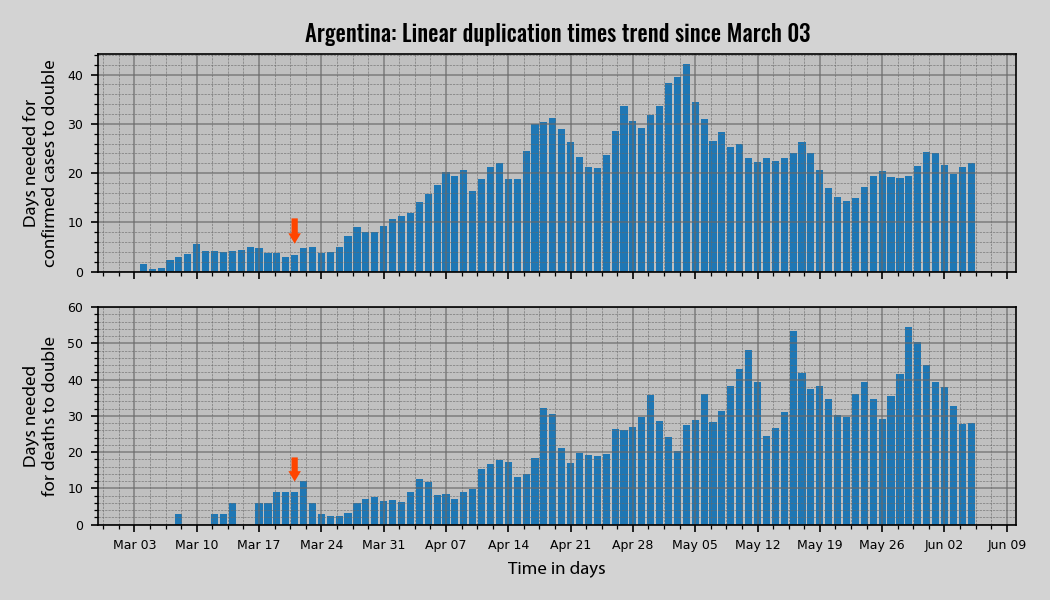
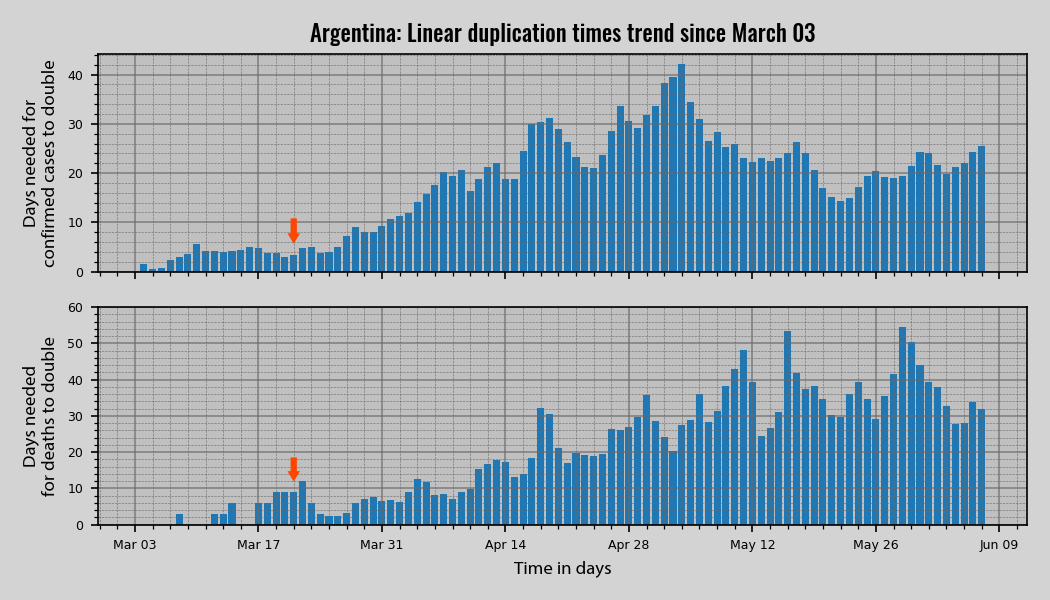
11-06-2020
Correcting the code...

diff --git a/COVID-19_Ar_Analysis.py b/COVID-19_Ar_Analysis.py
@@ -23,7 +23,7 @@ regions = ["CABA", "BUENOS AIRES", "CHACO"]
 #regions = ["NEUQUEN", "MENDOZA", "LA RIOJA", "ENTRE RIOS", "SANTA FE", "SAN JUAN", "CHUBUT"]
 
 #Selecting data to display
-startDate = "2020-03-03" #Starting point for plotbyDate. Default: 03/03
+startDate = "2020-03-15" #Starting point for plotbyDate. Default: 03/03
 caseCount = 200 #Starting point for plotbyOutbreak (number of confirmed cases)
 dataGuide = 0 #Data type to calculate startpoints (0 for confirmed, 2 for deaths)
 
@@ -31,26 +31,30 @@ dataGuide = 0 #Data type to calculate startpoints (0 for confirmed, 2 for deaths
 lg = 0 # 0 for english, 1 for spanish
 
 #Deciding if you want to save and show charts...
-saveChart = True
+saveChart = False
 showChart = True
 
 #Deciding what to plot...
 confirmedByDate = True #Decide if you want to plot confirmed data by date for selected regions.
-deathsByDate = True #Decide if you want to plot deaths data by date for selected regions.
+deathsByDate = False #Decide if you want to plot deaths data by date for selected regions.
 confirmedAndDeathsbyDate = True
 confirmedByOutbreak = False #Decide if you want to plot confirmed cases since dataGuide.
 deathsByOutbreak = False #Decide if you want to plot deaths since dataGuide.
+confirmedAndDeathsbyOutbreak = True
 newConfirmedCases = False #Decide if you want to plot new daily confirmed cases for selected regions
-newConfirmedCasesTrend = True #Decide if you want to plot new daily cases trend (3 day average)
+newConfirmedCasesTrend = False #Decide if you want to plot new daily cases trend (3 day average)
 newConfirmedCasesTrend5 = False #Decide if you want to plot new daily cases trend (5 day average)
 newDeaths = False #Decide if you want to plot new daily deaths for selected regions
-newDeathsTrend = True #Decide if you want to plot new daily deaths trend (3 day average)
+newDeathsTrend = False #Decide if you want to plot new daily deaths trend (3 day average)
 newDeathsTrend5 = False #Decide if you want to plot new daily deaths trend (5 day average)
+newConfirmedAndDeathsTrend = True
 deathRate = False #Decide if you want to plot death rate evolution for selected regions
+deathsAndDeathRate = True
 confirmedDuplication = False #Decide if you want to plot linear confirmed cases duplication times
 confirmedDuplicationTrend = False #Decide if you want to plot linear confirmed cases duplication times trend
 deathsDuplication = False #Decide if you want to plot linear deaths duplication times
 deathsDuplicationTrend = False #Decide if you want to plot linear deaths duplication times trend
+confirmedAndDeathsDuplicationTrend = True
 weeklyAnalysis = False #Decide if you want to plot new daily cases by day of the week for selected regions
 weeklyAnalysisType = "relative" # You can plot "absolute" values, "relative" to week maximum or "both"
 plotAllCountry = True #Decide if you want a final plot with summary for cases in Argentina.
@@ -174,7 +178,7 @@ def gridAndTicks(yMax, ticksInterval):
 	plt.gca().set_facecolor(backgroundPlot)
 
 def ticksLocator(weekInterval):
-	plt.gca().xaxis.set_minor_locator(tk.AutoMinorLocator(7))
+#	plt.gca().xaxis.set_minor_locator(tk.AutoMinorLocator(7))
 	plt.gca().xaxis.set_major_locator(mdates.WeekdayLocator(interval = weekInterval))
 	plt.gca().xaxis.set_major_formatter(dateFormat)
 
@@ -204,7 +208,7 @@ def plotbyDate(regions, datatype, xtitle, ytitle, markQ, ticksInterval, savechar
 		plt.legend(loc=2, shadow = True, facecolor = backgroundFigure, prop={'family' : legendFont, 'size' : 7})
 	plt.tight_layout()
 	if savechart == True:
-		savePlot(fileNames[datatype], figure)
+		savePlot("D_" + fileNames[datatype], figure)
 	if show == True:
 		plt.show()
 
@@ -228,8 +232,8 @@ def plotbyOutbreak(regions, datatype, dataguide, startpoints, xtitle, ytitle, ti
 	for i in range(len(regions)):
 		datalist = databases[datatype][startPoints[i]:][regions[i]].values.tolist()
 		if i == 0:
-			period = len(datalist)
-		plt.plot(datalist[0:period-1], label=regions[i], linewidth=2.5, color=colorlist[i])
+			period = len(datalist) - 1
+		plt.plot(datalist[0:period], label=regions[i], linewidth=2.5, color=colorlist[i])
 	#Setting up titles
 	plt.title("COVID-19: " + dataTitles[2*datatype+lg] + tConector[2 + lg] + str(caseCount) + " " + dataTitles[2*dataguide+lg], fontname=defaultFont)
 	plt.yscale(plotScale)
@@ -243,12 +247,12 @@ def plotbyOutbreak(regions, datatype, dataguide, startpoints, xtitle, ytitle, ti
 		plt.legend(loc=2, shadow = True, facecolor = backgroundFigure, prop={'family' : legendFont, 'size' : 7})
 	plt.tight_layout()
 	if savechart == True:
-		savePlot(fileNames[datatype], figure)
+		savePlot("O_" + fileNames[datatype], figure)
 	if show == True:
 		plt.show()
-
+	
 def plotDoublebyDate(regions, datatypeA, datatypeB, xtitle, ytitleA, ytitleB, markQ, ticksIntervalA, ticksIntervalB, savechart, show):
-	figure = plt.figure(num=None, figsize=(7, 4.5), dpi=imageResolution, facecolor=backgroundFigure, edgecolor='k')
+	figure = plt.figure(num=None, figsize=(7, 5), dpi=imageResolution, facecolor=backgroundFigure, edgecolor='k')
 	figure.suptitle("COVID-19: " + dataTitles[2*(datatypeA)+lg] + tConector[8+lg] + dataTitles[2*(datatypeB)+lg] +
 					 tConector[lg] + startDateTime.strftime(dateFormatString), fontsize=12, fontname=defaultFont)
 	plt.subplot2grid((2, 1), (0, 0))
@@ -297,10 +301,58 @@ def plotDoublebyDate(regions, datatypeA, datatypeB, xtitle, ytitleA, ytitleB, ma
 	#Setting up grid...
 	gridAndTicks(s[1]*1.1, ticksIntervalB)
 	ticksLocator(1)
-	plt.tight_layout(rect=[0, 0.03, 1, 0.95])
+	plt.tight_layout(rect=[0, 0, 1, 0.95])
 	if savechart == True:
 		auxName = fileNames[datatypeA].split(".")
-		savePlot(auxName[0] + "_" + fileNames[datatypeB], figure)
+		savePlot("D_" + auxName[0] + "_" + fileNames[datatypeB], figure)
+	if show == True:
+		plt.show()
+
+def plotDoublebyOutbreak(regions, datatypeA, datatypeB, dataguide, xtitle, ytitleA, ytitleB, ticksIntervalA, ticksIntervalB, savechart, show):
+	figure = plt.figure(num=None, figsize=(7, 5), dpi=imageResolution, facecolor=backgroundFigure, edgecolor='k')
+	figure.suptitle("COVID-19: " + dataTitles[2*(datatypeA)+lg] + tConector[8+lg] + dataTitles[2*(datatypeB)+lg] +
+					 tConector[2+lg] + str(caseCount)  + " " + dataTitles[2*dataguide+lg], fontsize=12, fontname=defaultFont)
+	plt.subplot2grid((2, 1), (0, 0))
+	period = 0
+	#Plotting selected data...
+	for i in range(len(regions)):
+		datalist = databases[datatypeA][startPoints[i]:][regions[i]].values.tolist()
+		if i == 0:
+			period = len(datalist) - 1
+		plt.plot(datalist[0:period], label=regions[i], linewidth=2.5, color=colorlist[i])
+	s = plt.ylim()
+	a = plt.xlim()
+	#Setting up titles	
+	plt.title(dataTitles[2*(datatypeA)+lg], fontname=defaultFont)
+	plt.yscale(plotScale)
+	plt.ylabel(ytitleA, fontname=legendFont)
+	plt.xlabel("")
+	plt.legend(loc=2, shadow = True, facecolor = backgroundFigure, prop={'family' : legendFont, 'size' : 7})
+	#Setting up grid...
+	gridAndTicks(s[1]*1.1, ticksIntervalA)
+	plt.gca().xaxis.set_ticklabels([])
+	#Setting axis labels font and legend
+	plt.subplot2grid((2, 1), (1, 0))
+	#Plotting selected data...
+	for i in range(len(regions)):
+		datalist = databases[datatypeB][startPoints[i]:][regions[i]].values.tolist()
+		if i == 0:
+			period = len(datalist) - 1
+		plt.plot(datalist[0:period], label=regions[i], linewidth=2.5, color=colorlist[i])
+	s = plt.ylim()
+	plt.xlim(a[0], a[1])
+	#Setting up titles	
+	plt.title(dataTitles[2*(datatypeB)+lg], fontname=defaultFont)
+	plt.yscale(plotScale)
+	plt.ylabel(ytitleB, fontname=legendFont)
+	plt.xlabel(xtitle, fontname=legendFont)
+	plt.legend(loc=2, shadow = True, facecolor = backgroundFigure, prop={'family' : legendFont, 'size' : 7})
+	#Setting up grid...
+	gridAndTicks(s[1]*1.1, ticksIntervalB)
+	plt.tight_layout(rect=[0, 0, 1, 0.95])
+	if savechart == True:
+		auxName = fileNames[datatypeA].split(".")
+		savePlot("O_" + auxName[0] + "_" + fileNames[datatypeB], figure)
 	if show == True:
 		plt.show()
 
@@ -551,9 +603,9 @@ def plotWeeklyCases(weeklyConfirmed, weeklyDeaths, yTitleC, yTitleD, region, aTy
 	if show == True:
 		plt.show()
 
-def plotWeeklyAnalysis(weeklyConfirmed, weeklyDeaths, yTitleC, yTitleD, aType, regions, saveChart):
+def plotWeeklyAnalysis(weeklyConfirmed, weeklyDeaths, yTitleC, yTitleD, aType, regions, savechart, showchart):
 	for d in range(len(regions)):
-		plotWeeklyCases(weeklyConfirmed[d], weeklyDeaths[d], yTitleC, yTitleD, regions[d], aType, saveChart)
+		plotWeeklyCases(weeklyConfirmed[d], weeklyDeaths[d], yTitleC, yTitleD, regions[d], aType, savechart, showchart)
 
 #Calling the functions to build selected charts...
 if confirmedByDate == True:
@@ -570,6 +622,8 @@ if confirmedByOutbreak == True:
 if deathsByOutbreak == True:
 	print("Plotting deaths data by outbreak...", end="\n")
 	plotbyOutbreak(regions, 2, dataGuide, startPoints, xTitles[0+lg], yTitles[2+lg], 50, saveChart, showChart)
+if confirmedAndDeathsbyOutbreak == True:
+	plotDoublebyOutbreak(regions, 0, 2, dataGuide, xTitles[0+lg], yTitles[0+lg], yTitles[2+lg], 2000, 100, saveChart, showChart)
 if newConfirmedCases == True:
 	print("Plotting daily confirmed cases data...", end="\n")
 	plotbyDate(regions, 7, xTitles[0+lg], yTitles[0+lg], True, 100, saveChart, showChart)
@@ -588,9 +642,13 @@ if newDeathsTrend == True:
 if newDeathsTrend5 == True:
 	print("Plotting daily deahts trend...", end="\n")
 	plotbyDate(regions, 28, xTitles[0+lg], yTitles[2+lg], True, 5, saveChart, showChart)
+if newConfirmedAndDeathsTrend == True:
+	plotDoublebyDate(regions, 8, 12, xTitles[0+lg], yTitles[0+lg], yTitles[2+lg], True, 150, 10, saveChart, showChart)
 if deathRate == True:
 	print("Plotting death rate evolution...", end="\n")
 	plotbyDate(regions, 6, xTitles[0+lg], yTitles[4+lg], False, 0.02, saveChart, showChart)
+if deathsAndDeathRate == True:
+	plotDoublebyDate(regions, 2, 6, xTitles[0+lg], yTitles[2+lg], yTitles[4+lg], True, 100, 0.25, saveChart, showChart)
 if confirmedDuplication == True:
 	print("Plotting confirmed cases duplications times by date...", end="\n")
 	plotbyDate(regions, 20, xTitles[0+lg], yTitles[10+lg], False, 15, saveChart, showChart)
@@ -603,6 +661,8 @@ if deathsDuplication == True:
 if deathsDuplicationTrend == True:
 	print("Plotting confirmed cases duplications times by date...", end="\n")
 	plotbyDate(regions, 23, xTitles[0+lg], yTitles[12+lg], False, 25, saveChart, showChart)
+if confirmedAndDeathsDuplicationTrend == True:
+	plotDoublebyDate(regions, 21, 23, xTitles[0+lg], yTitles[10+lg], yTitles[12+lg], False, 15, 25, saveChart, showChart)
 weeklyConfirmed = []
 weeklyDeaths = []
 weeklyConfirmedR = []
@@ -631,14 +691,14 @@ if plotAllCountry == True:
 	if weeklyAnalysisAC == True:
 		if weeklyAnalysisType == "both":
 			print("Plotting week analysis for Argentina (absolute and relative)", end="\n")
-			plotWeeklyAnalysis(weeklyConfirmed, weeklyDeaths, yTitles[0+lg], yTitles[2+lg], tConector[4+lg], ["ARGENTINA"], True, showChart)
-			plotWeeklyAnalysis(weeklyConfirmedR, weeklyDeathsR, yTitles[0+lg], yTitles[2+lg], tConector[6+lg], ["ARGENTINA"], True, showChart)
+			plotWeeklyAnalysis(weeklyConfirmed, weeklyDeaths, yTitles[0+lg], yTitles[2+lg], tConector[4+lg], ["ARGENTINA"], saveChart, showChart)
+			plotWeeklyAnalysis(weeklyConfirmedR, weeklyDeathsR, yTitles[0+lg], yTitles[2+lg], tConector[6+lg], ["ARGENTINA"], saveChart, showChart)
 		elif weeklyAnalysisType == "relative":
 			print("Plotting week analysis for Argentina (relative)", end="\n")
-			plotWeeklyAnalysis(weeklyConfirmedR, weeklyDeathsR, yTitles[0+lg], yTitles[2+lg], tConector[6+lg], ["ARGENTINA"], True, showChart)		
+			plotWeeklyAnalysis(weeklyConfirmedR, weeklyDeathsR, yTitles[0+lg], yTitles[2+lg], tConector[6+lg], ["ARGENTINA"], saveChart, showChart)		
 		elif weeklyAnalysisType == "absolute":
 			print("Plotting week analysis for Argentina (absolute)", end="\n")
-			plotWeeklyAnalysis(weeklyConfirmed, weeklyDeaths, yTitles[0+lg], yTitles[2+lg], tConector[4+lg], ["ARGENTINA"], True, showChart)
+			plotWeeklyAnalysis(weeklyConfirmed, weeklyDeaths, yTitles[0+lg], yTitles[2+lg], tConector[4+lg], ["ARGENTINA"], saveChart, showChart)
 
 #Saying good bye...
 print("That's all. If you want more plots, edit the code and run again.                          ", end="\n")

diff --git a/COVID-19_DataGobAr_TestsAnalysis.py b/COVID-19_DataGobAr_TestsAnalysis.py
@@ -15,8 +15,8 @@ print("-----------------------------------------------")
 print()
 
 #Selecting data: "Confirmed", "Deaths" or "Recovered"
-#regions = ["CABA", "Buenos Aires", "Santa Fe", "Córdoba", "Río Negro", "Chubut"]
-regions = ["CABA", "Buenos Aires"]
+regions = ["Santa Fe", "Córdoba", "Río Negro", "Chubut", "Mendoza", "Chaco", "Misiones"]
+#regions = ["CABA", "Buenos Aires"]
 
 fileName = "Covid19Determinaciones.csv"
 fileCompletePath = "Argentina_Data/datos.gob.ar/" + fileName
@@ -24,14 +24,18 @@ chartPath = "Argentina_Data/actual_charts/"
 colorlist = ["orange", "tab:blue", "tab:red", "tab:green"]
 
 dataStartDate = "2020-02-11"
-dataEndDate = "2020-06-05"
-wantedStartDate = "2020-03-17"
-wantedEndDate = "2020-06-01"
+dataEndDate = "2020-06-10"
+wantedStartDate = "2020-04-10"
+wantedEndDate = "2020-06-10"
 dataPeriod = pd.date_range(dataStartDate, dataEndDate)
 plotScale = "linear"
 
 #Deciding language for titles and tags...
 lg = 0 # 0 for english, 1 for spanish
+
+#Deciding if you want to save and show charts...
+saveChart = False
+showChart = True
 
 #Deciding what to plot...
 plotByRegions = True
@@ -80,10 +84,9 @@ for r in range(len(regions)):
 	del databases[r]["departamento"]
 	databases[r].index = pd.DatetimeIndex(databases[r].index)
 	databases[r] = databases[r].reindex(dataPeriod, fill_value=0)
-	databases[r].index = pd.DatetimeIndex(databases[r].index)
-	cumulative_databases.append(databases[r].cumsum())
 	databases[r].loc[:,"ratio"] = databases[r][:]["positivos"].div(databases[r][:]["total"])
 	databases[r]["ratio"].fillna(0, inplace=True)
+	cumulative_databases.append(databases[r].cumsum())
 	cumulative_databases[r].index = pd.DatetimeIndex(cumulative_databases[r].index)
 	cumulative_databases[r].loc[:,"ratio"] = cumulative_databases[r][:]["positivos"].div(cumulative_databases[r][:]["total"])
 	cumulative_databases[r]["ratio"].fillna(0, inplace=True)
@@ -112,6 +115,8 @@ ptitles = ["Daily tests by region", "Testeos diarios por provincia", "Cumulative
 			"Testeos acumulados por provincia", "Daily positive tests ratio", "Tasa de positividad diaria",
 			"Cumulative positive tests ratio", "Tasa de positividad acumulada", "Daily positive tests",
 			"Testeos positivos diarios", "Cumulative positive tests", "Testeos positivos acumulados"]
+filenames = ["dailytests", "cumulativetests", "dailypositiveratio", "positiveratio", "dailypositives",
+				"cumulativepositives"]
 xtitles = ["Time in days", "Tiempo en días"]
 ytitles = ["Number of tests", "Cantidad de tests", "Positive tests ratio", "Tasa de positividad",
 			"Positive tests", "Tests positivos"]
@@ -124,9 +129,8 @@ def markQuarantine(tag, yshift, ytshift, font, x, y, w, hw, hl):
 			arrowprops=dict(facecolor='orangered', edgecolor="none", width=w, headwidth=hw, headlength=hl),
         	horizontalalignment='center', verticalalignment='top')
 
-def savePlot(csvName, figure):
-	chartName = csvName.split(".")
-	plt.savefig(chartPath + chartName[0] + ".png", facecolor=figure.get_facecolor())
+def savePlot(csvname, figure):
+	plt.savefig(chartPath + csvName + ".png", facecolor=figure.get_facecolor())
 
 def gridAndTicks(yMax, ticksinterval):
 	plt.grid(which='both', axis='both')
@@ -141,43 +145,45 @@ def gridAndTicks(yMax, ticksinterval):
 	plt.gca().set_facecolor(backgroundPlot)
 
 def ticksLocator(weekInterval):
-	plt.gca().xaxis.set_minor_locator(tk.AutoMinorLocator(7))
+#	plt.gca().xaxis.set_minor_locator(tk.AutoMinorLocator(7))
 	plt.gca().xaxis.set_major_locator(mdates.WeekdayLocator(interval = weekInterval))
 	plt.gca().xaxis.set_major_formatter(dateFormat)
 
-def plotData(datatoplot, tag, ptitle, xtitle, ytitle, ticksinterval):
+def plotData(datatoplot, tag, ptitle, xtitle, ytitle, ticksinterval, savechart, show, csvname):
 	figure = plt.figure(num=None, figsize=(8, 4), dpi=150, facecolor=backgroundFigure, edgecolor='k')
 	for i in range(len(datatoplot)):
 		datatoplot[i][wantedStartDate:wantedEndDate][tag].plot(kind='line', label=regions[i], linewidth=2.0)
 	plt.title(ptitle, fontname=defaultFont)
-	
 	s = plt.ylim()
+	plt.yscale(plotScale)
 	plt.ylabel(ytitle, fontname=legendFont)
 	plt.xlabel(xtitle, fontname=legendFont)
 	gridAndTicks(s[1]*1.1, ticksinterval)
 	ticksLocator(1)
-	plt.yscale(plotScale)
 	plt.legend(loc=2, shadow = True, facecolor = backgroundFigure, prop={'family' : legendFont, 'size' : 7})
 	plt.tight_layout()
-	plt.show()
+	if savechart == True:
+		savePlot(csvname, figure)
+	if show == True:
+		plt.show()
 
 if plotByRegions == True:
 	print("Plotting tests data by date...", end="\n")
-	plotData(databases, "total", ptitles[0+lg], xtitles[0+lg], ytitles[0+lg], 500)
+	plotData(databases, "total", ptitles[0+lg], xtitles[0+lg], ytitles[0+lg], 500, saveChart, showChart, filenames[0])
 if plotCumulative == True:
 	print("Plotting cummulative tests since date...", end="\n")
-	plotData(cumulative_databases, "total", ptitles[2+lg], xtitles[0+lg], ytitles[0+lg], 3000)
+	plotData(cumulative_databases, "total", ptitles[2+lg], xtitles[0+lg], ytitles[0+lg], 10000, saveChart, showChart, filenames[1])
 if plotInfectedRatio == True:
 	print("Plotting positive tests ratio since date...", end="\n")
-	plotData(databases, "ratio", ptitles[4+lg], xtitles[0+lg], ytitles[2+lg], 0.25)
+	plotData(databases, "ratio", ptitles[4+lg], xtitles[0+lg], ytitles[2+lg], 0.25, saveChart, showChart, filenames[2])
 if plotCumulativeRatio == True:
 	print("Plotting cumularive positive tests ratio since date...", end="\n")
-	plotData(cumulative_databases, "ratio", ptitles[6+lg], xtitles[0+lg], ytitles[2+lg], 0.25)
+	plotData(cumulative_databases, "ratio", ptitles[6+lg], xtitles[0+lg], ytitles[2+lg], 0.05, saveChart, showChart, filenames[3])
 if plotPositives == True:
 	print("Plotting cumularive positive tests ratio since date...", end="\n")
-	plotData(databases, "positivos", ptitles[8+lg], xtitles[0+lg], ytitles[4+lg], 100)
+	plotData(databases, "positivos", ptitles[8+lg], xtitles[0+lg], ytitles[4+lg], 100, saveChart, showChart, filenames[4])
 if plotCumulativePositives == True:
 	print("Plotting cumularive positive tests ratio since date...", end="\n")
-	plotData(cumulative_databases, "positivos", ptitles[10+lg], xtitles[0+lg], ytitles[4+lg], 500)
+	plotData(cumulative_databases, "positivos", ptitles[10+lg], xtitles[0+lg], ytitles[4+lg], 3000, saveChart, showChart, filenames[5])
 
 print("That's all. If you want more plots, edit the code and run again.                          ", end="\n")

diff --git a/README.md b/README.md
@@ -42,6 +42,14 @@ daily trends, laboratory tests and positive tests ratio among others).
 - Plot duplication time evolution (how many days would be need for total cases being duplicated).
 - Plot the confirmed cases distribution by day of the week.
 
+### With *COVID-19_DataGobAr_TestsAnalysis.py*...
+You can visualize the laboratory tests data published in
+[datos.gob.ar](https://datos.gob.ar/dataset/salud-covid-19-determinaciones-registradas-republica-argentina).
+Is possible to:
+- Plot daily and cumulative tests by province.
+- Plot daily and cumulative positive tests by province.
+- Plot daily and cumulative positive test ratio (positive/total).
+
 ### Definitions
 In the charts that the code generates you will see a lot of categories. Pay attention to these descriptions
 to know exactly what each one represents.
